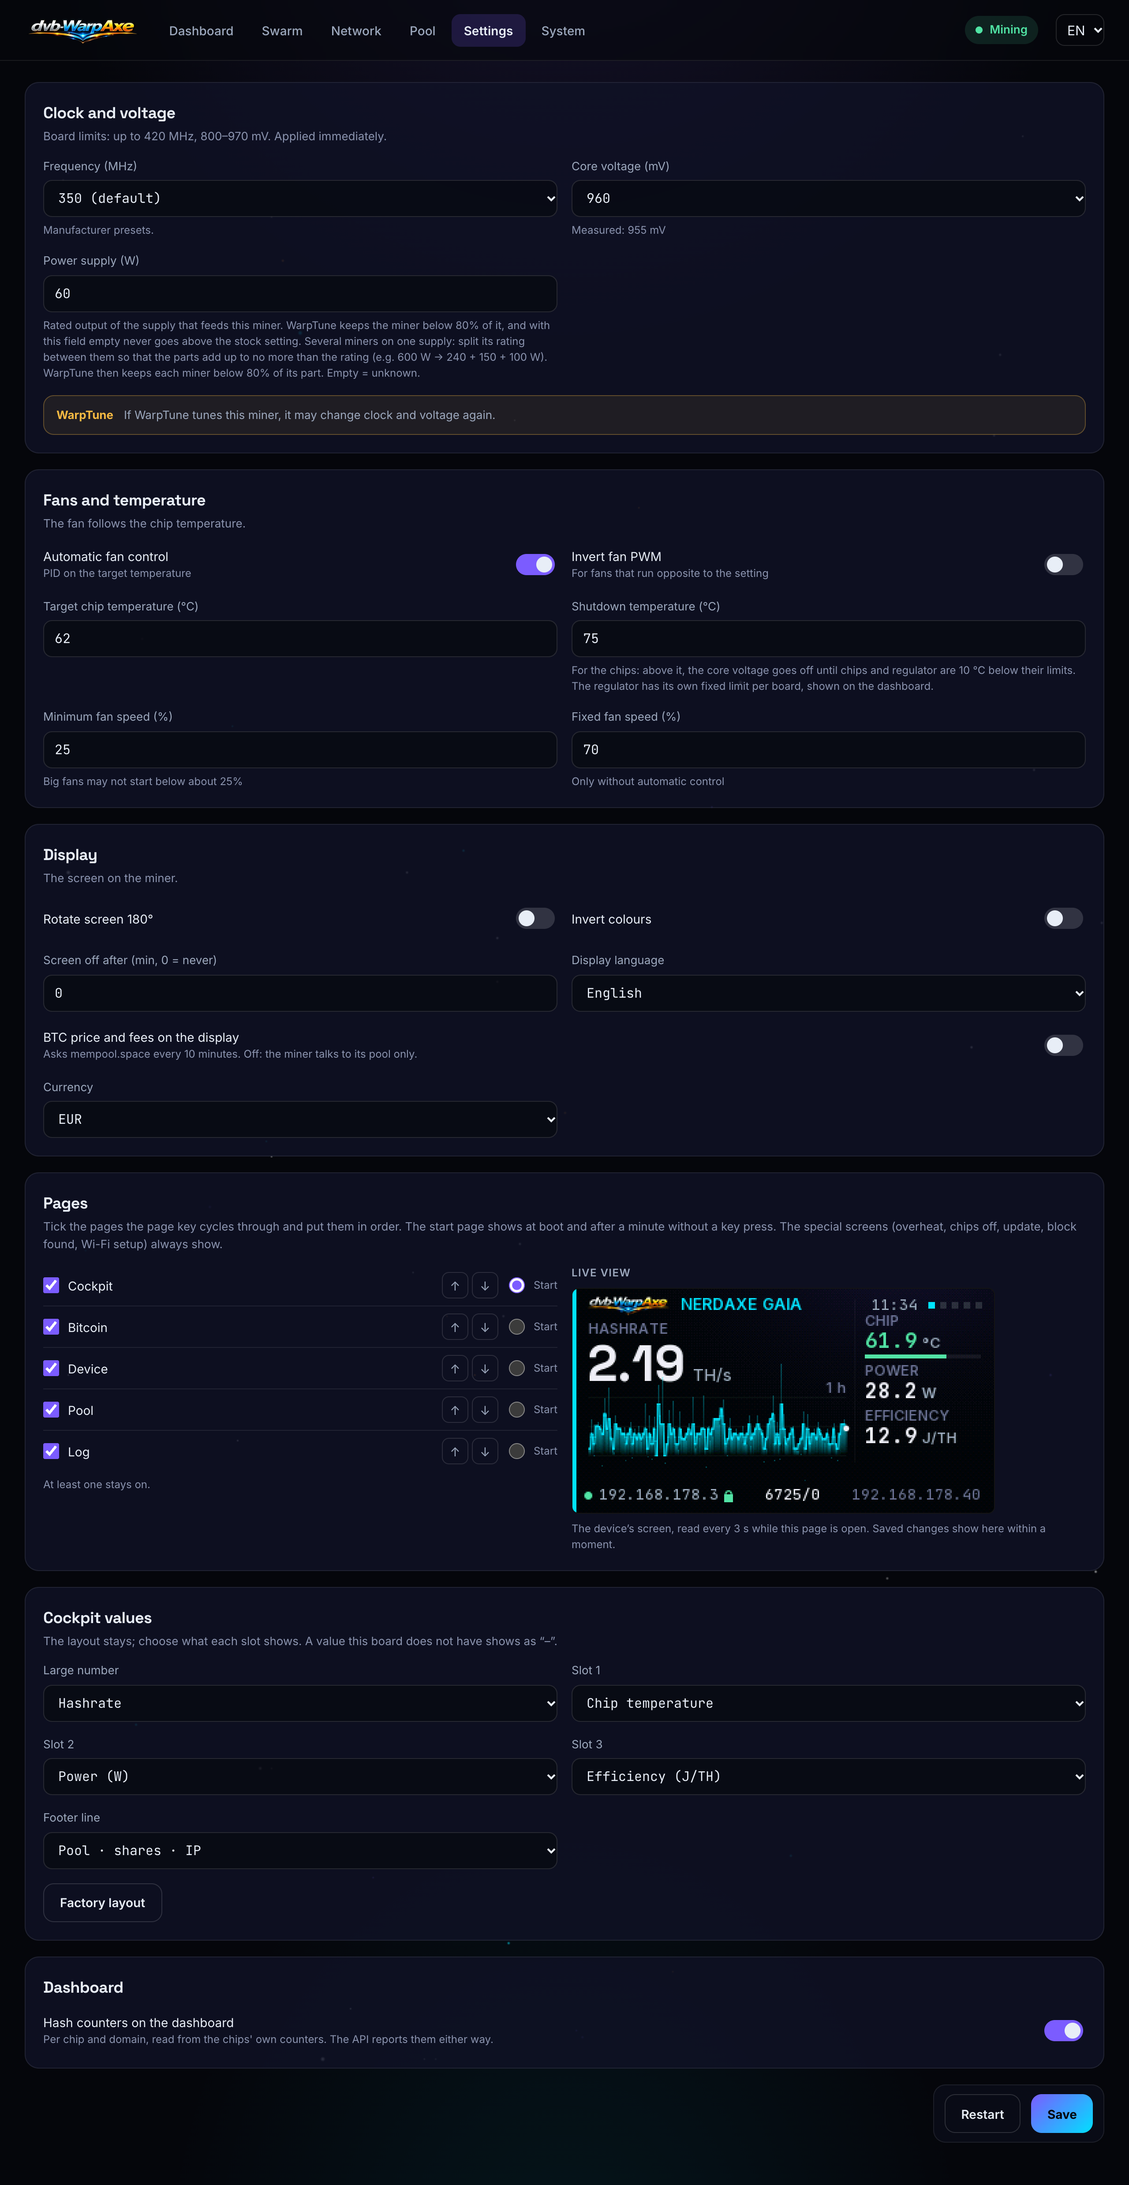
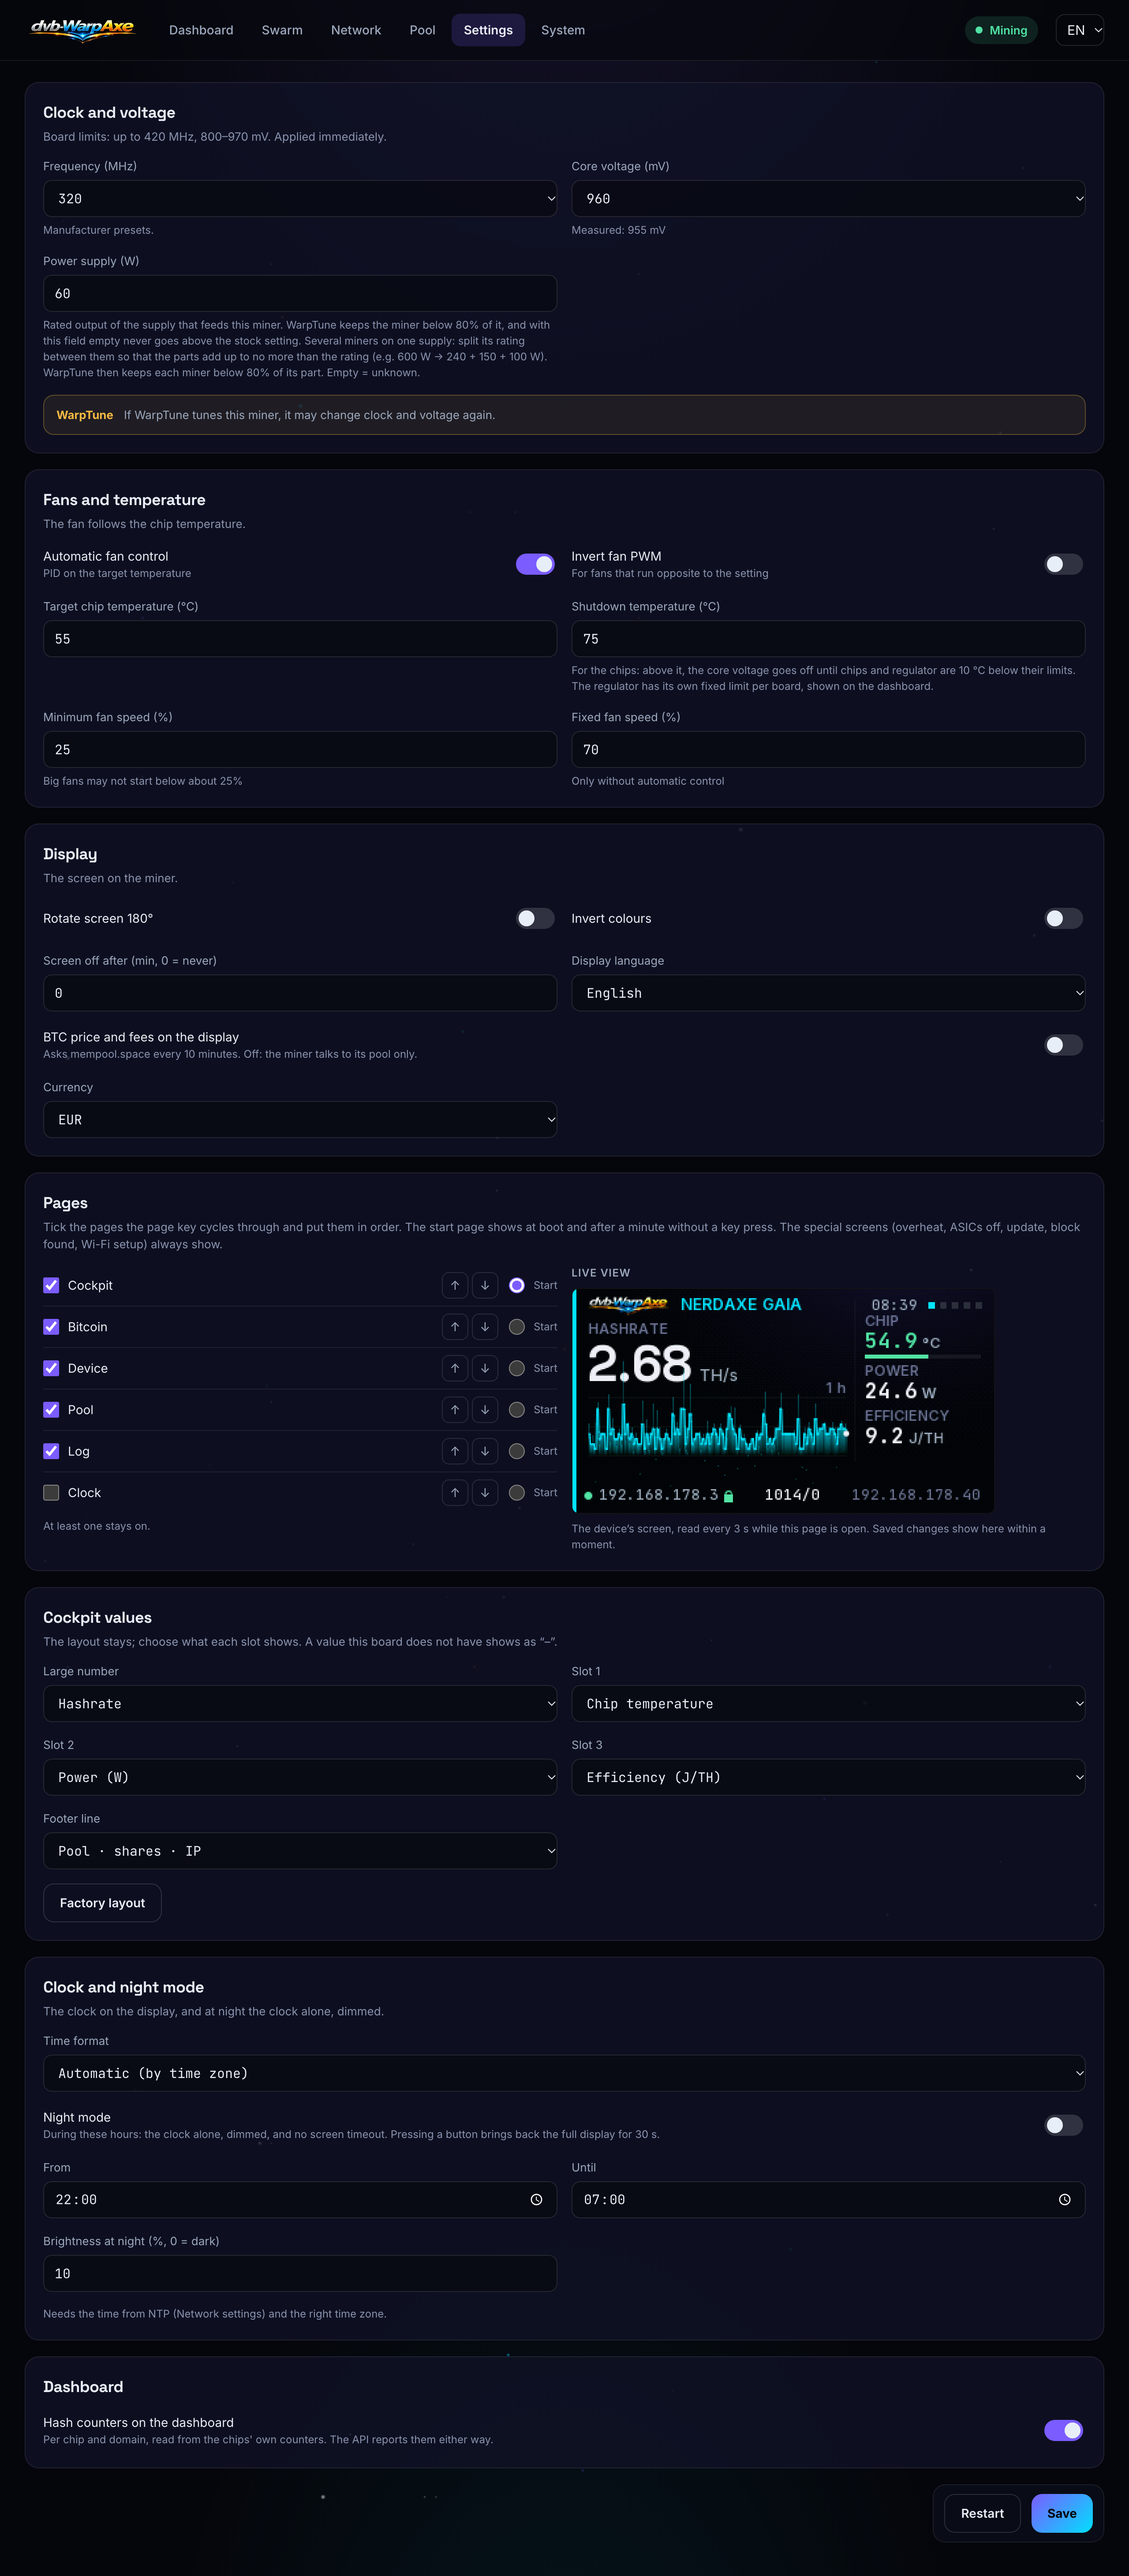
docs: README screenshots at v0.1.45 (clock page and night mode on the LCD, the OLED clock slide, settings with clock and night mode); displaycfg comments name v0.1.45

diff --git a/crates/displaycfg/src/lib.rs b/crates/displaycfg/src/lib.rs
@@ -11,7 +11,7 @@
 
 #![forbid(unsafe_code)]
 
-/// The LCD pages there are. `clock` (v0.1.46) is not among the factory
+/// The LCD pages there are. `clock` (v0.1.45) is not among the factory
 /// pages: an owner adds it.
 pub const PAGES: &[&str] = &["cockpit", "bitcoin", "device", "pool", "log", "clock"];
 /// The factory pages and their order. `cockpit` is the home page.
@@ -52,7 +52,7 @@ pub const FOOTERS: &[&str] = &[
 
 /// The OLED's slides there are: five with the hashrate large on the left
 /// and one value on the right, three full-width info slides, the
-/// wordmark, and the clock (v0.1.46, not among the factory slides).
+/// wordmark, and the clock (v0.1.45, not among the factory slides).
 pub const OLED_SLIDES: &[&str] = &[
     "temp",
     "power",

diff --git a/README.md b/README.md
@@ -186,8 +186,8 @@ gets from AxeOS, NerdOS, ForgeOS and WarpAxe.
 </p>
 
 <p align="center">
-  <img src="docs/screenshots/web-settings.png" alt="Settings: clock and voltage presets, fans and temperature, display, dashboard" width="760"><br>
-  <em>Settings — clock and voltage as the manufacturer's steps, the power supply's rating, fans (on the Nerd boards both linked to the chips by default), display, and the dashboard's hash-counter card (Wi-Fi, hostname and time are on their own Network tab); <code>?oc</code> in the address unlocks free values and the expert section (fan PID, second fan output, suggested difficulty, job interval).</em>
+  <img src="docs/screenshots/web-settings.png" alt="Settings: clock and voltage presets, fans and temperature, display, pages with order, start page and live view, cockpit values, clock and night mode, dashboard" width="760"><br>
+  <em>Settings — clock and voltage as the manufacturer's steps, the power supply's rating, fans (on the Nerd boards both linked to the chips by default), display, the pages the key steps through (order, start page, and a live view of the device's screen), the cockpit's values, clock and night mode (since v0.1.45), and the dashboard's hash-counter card (Wi-Fi, hostname and time are on their own Network tab); <code>?oc</code> in the address unlocks free values and the expert section (fan PID, second fan output, suggested difficulty, job interval).</em>
 </p>
 
 <p align="center">
@@ -220,6 +220,12 @@ gets from AxeOS, NerdOS, ForgeOS and WarpAxe.
 <p align="center">
   <img src="docs/screenshots/lcd-pages.png" alt="NerdQAxe++ LCD pages: cockpit, Bitcoin, device, pool" width="760"><br>
   <em>NerdQAxe++ (320×170 LCD) — the cockpit and three of the four pages the page key steps through (a log page follows). Block height, halving and network difficulty come from the pool's job; the BTC price line appears only if you switch it on.</em>
+</p>
+
+<p align="center">
+  <img src="docs/screenshots/lcd-clock.png" alt="Clock page on the LCD with date, week, hashrate, block height, price and fee; night mode: the clock dimmed with date, hashrate and temperature" width="760"><br>
+  <img src="docs/screenshots/oled-clock.png" alt="Clock slide on the Bitaxe OLED: time, weekday and short date, hashrate" width="272"><br>
+  <em>Clock (since v0.1.45; not among the factory pages, night mode off by default) — the clock page with weekday, date, calendar week and hashrate, below them block height, BTC price and fee (pool and uptime instead while the price is off); night mode with the clock dimmed above date, hashrate and temperature; the Bitaxe OLED's clock slide.</em>
 </p>
 
 <p align="center">
